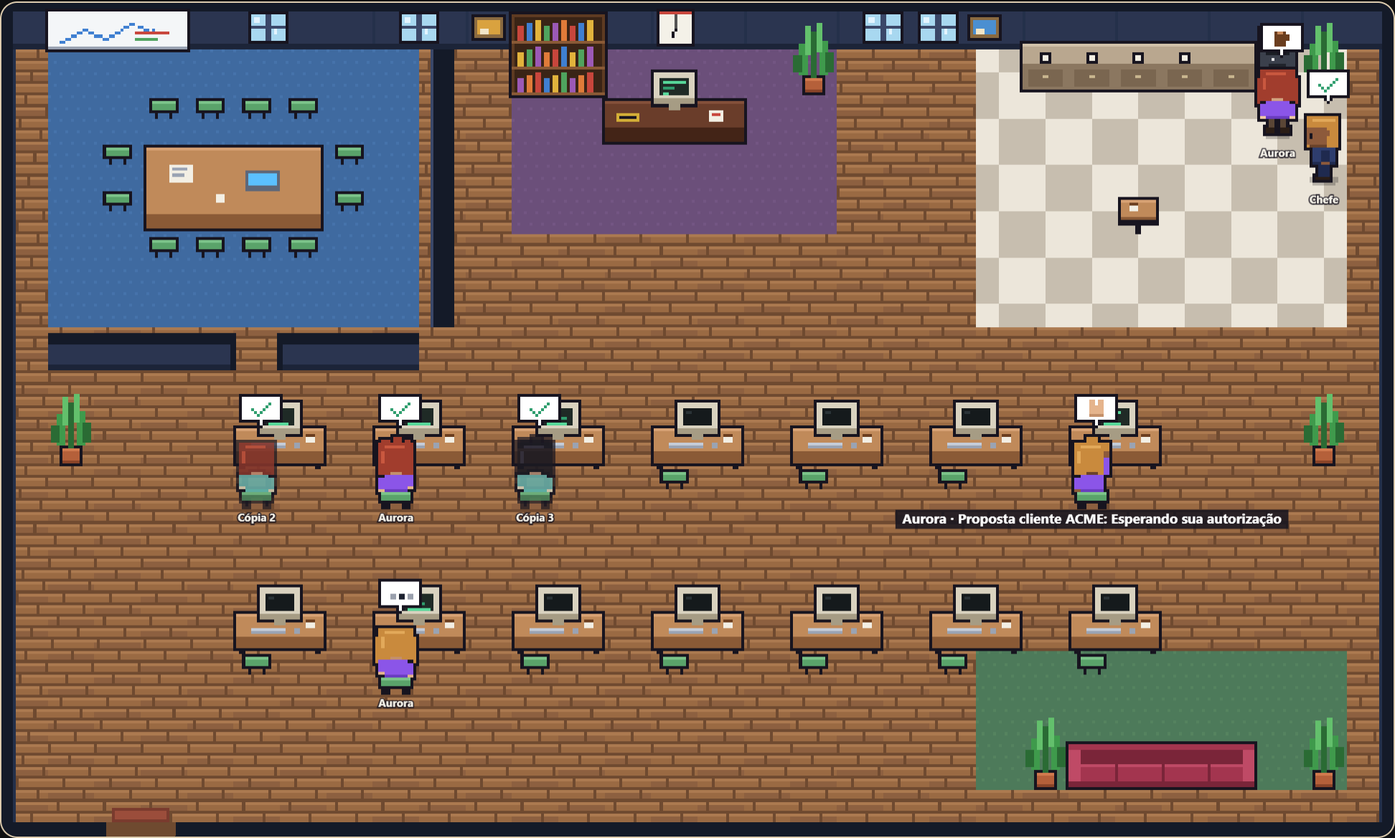
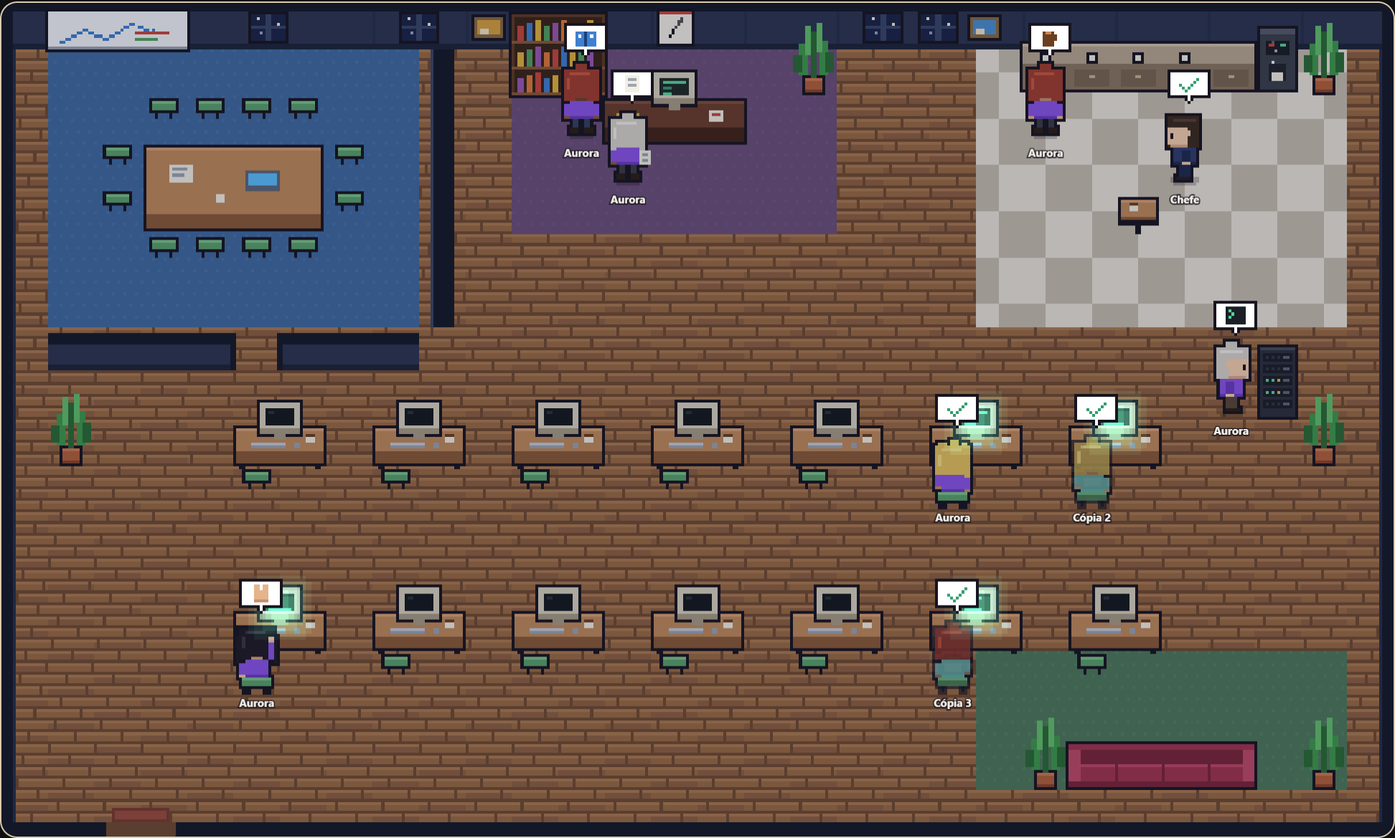
Escritório vivo: o lugar e o gesto seguem o que cada um faz de verdade
- Ferramenta decide o lugar: ler arquivos/documentos na estante, comandos no
  rack de servidores (novo), escrever e pesquisar no computador; mantido por
  5 s para ninguém correr a cada passo curto.
- Entrega: o papel na mesa do chefe, café na cafeteira, depois o café.
- Pensando por mais de 6 s: levanta e anda ao lado da mesa.
- Chefe sem nada a conferir faz ronda pelas mesas de quem trabalha.
- Livres dão voltas e, quando se encontram, conversam (balões em turnos).
- Piscar e respirar; papel e xícara nas mãos; servidor piscando; janelas e
  luz da sala pela hora real (dia, entardecer, noite com estrelas), monitores
  brilhando à noite.

diff --git a/frontend/src/officeSim.ts b/frontend/src/officeSim.ts
@@ -5,7 +5,7 @@
 // the walk there (A* on the tiles) and the step of each frame. Pure: no React, no canvas (tests).
 
 export type OfficeActor = {
-  id: string; kind: "aurora" | "agente" | "copia" | "professor" | "chefe"; name: string; state: string; activity: string;
+  id: string; tool?: string; kind: "aurora" | "agente" | "copia" | "professor" | "chefe"; name: string; state: string; activity: string;
   since?: number | null; conversationId?: string | null; agentId?: string; task?: string; with?: string; teacher?: string; department?: string | null;
   plan?: { done: number; total: number } | null;
 };
@@ -13,10 +13,10 @@ export type OfficeActor = {
 export const COLS = 30, ROWS = 18;
 export type Tile = { x: number; y: number };
 export type Spot = Tile & { face: "up" | "down" | "left" | "right"; sit: boolean; kind: SpotKind; desk?: number };
-export type SpotKind = "desk" | "meeting" | "boss" | "visit" | "coffee" | "sofa" | "rest" | "door";
+export type SpotKind = "desk" | "meeting" | "boss" | "visit" | "coffee" | "sofa" | "rest" | "door" | "shelf" | "server" | "pace";
 
 /** The furniture: blocked tiles, drawn by the view. */
-export type Furniture = { kind: "desk" | "table" | "bossdesk" | "counter" | "machine" | "sofa" | "plant" | "roundtable" | "glass" | "shelf" | "whiteboard"; x: number; y: number; w: number; h: number; desk?: number };
+export type Furniture = { kind: "desk" | "table" | "bossdesk" | "counter" | "machine" | "sofa" | "plant" | "roundtable" | "glass" | "shelf" | "whiteboard" | "server"; x: number; y: number; w: number; h: number; desk?: number };
 
 function plan() {
   const furniture: Furniture[] = [];
@@ -31,6 +31,10 @@ function plan() {
   furniture.push({ kind: "bossdesk", x: 13, y: 2, w: 3, h: 1 }, { kind: "shelf", x: 11, y: 1, w: 2, h: 1 }, { kind: "plant", x: 17, y: 1, w: 1, h: 1 });
   spots.push({ x: 14, y: 1, face: "down", sit: true, kind: "boss" });
   spots.push({ x: 13, y: 3, face: "up", sit: false, kind: "visit" }, { x: 15, y: 3, face: "up", sit: false, kind: "visit" });
+  spots.push({ x: 11, y: 2, face: "up", sit: false, kind: "shelf" }, { x: 12, y: 2, face: "up", sit: false, kind: "shelf" });
+  // The server rack (right wall): where commands run.
+  furniture.push({ kind: "server", x: 27, y: 8, w: 1, h: 1 });
+  spots.push({ x: 27, y: 9, face: "up", sit: false, kind: "server" }, { x: 26, y: 8, face: "right", sit: false, kind: "server" });
   // Coffee corner (top right): the machine, the counter, a round table.
   furniture.push({ kind: "machine", x: 27, y: 1, w: 1, h: 1 }, { kind: "counter", x: 22, y: 1, w: 5, h: 1 }, { kind: "roundtable", x: 24, y: 4, w: 1, h: 1 }, { kind: "plant", x: 28, y: 1, w: 1, h: 1 });
   for (const x of [27, 22, 23, 24, 25, 26]) spots.push({ x, y: 2, face: "up", sit: false, kind: "coffee" });
@@ -90,6 +94,12 @@ const hash = (s: string) => { let h = 2166136261; for (const c of s) { h ^= c.ch
 /** Where a state sends someone: the kind of spot. */
 export function placeOf(a: OfficeActor): SpotKind | "beside" | "gone" {
   if (a.kind === "chefe") return a.state === "reuniao" ? "meeting" : a.state === "cobrando" || a.state === "conferindo" ? "beside" : "boss";
+  // Working, the tool decides where: reading files and documents at the shelves, commands at the
+  // server, the rest (writing, the web, the BI) at the computer.
+  if (a.state === "trabalhando" && a.tool) {
+    if (/^(read_file|list_dir|list_files|glob|search_files|grep|knowledge|memor)/.test(a.tool)) return "shelf";
+    if (/^(run_command|shell|powershell)/.test(a.tool)) return "server";
+  }
   switch (a.state) {
     case "revisao": case "reuniao": return "meeting";
     case "cafe": return "coffee";
@@ -144,15 +154,37 @@ export function assignSpots(actors: OfficeActor[], before: Map<string, Spot> = n
   return out;
 }
 
+/** An errand on the way to one's place: a spot, how long to stay, what one carries away from it. */
+export type Errand = { spot: Spot; wait: number; carry?: Carry };
+export type Carry = "paper" | "cup" | null;
 /** A person on the floor: where they are, where they go, how they look. */
-export type Walker = { id: string; actor: OfficeActor; x: number; y: number; path: Tile[]; spot: Spot | null; leaving: boolean; phase: number; facing: Spot["face"]; seat: boolean; strollAt: number };
+export type Walker = {
+  id: string; actor: OfficeActor; x: number; y: number; path: Tile[]; spot: Spot | null; leaving: boolean; phase: number; facing: Spot["face"]; seat: boolean; strollAt: number;
+  home?: Spot | null; homeAt?: number; queue?: Errand[]; dwell?: number; gives?: Carry; arrivedAt?: number | null; carry?: Carry; routineAt?: number; chatWith?: string | null;
+};
 const SPEED = 3.2;            // tiles per second
+const BUSY = new Set(["trabalhando", "pensando", "refazendo", "conferindo", "aguardando", "chegando", "revisao", "cobrado"]);
+const same = (a?: Spot | null, b?: Spot | null) => !!a && !!b && a.x === b.x && a.y === b.y;
+const go = (w: Walker, spot: Spot) => { w.spot = spot; w.path = findPath(w, spot); w.arrivedAt = null; };
 
-/** One frame: everyone walks their path; arrived, they sit or stand as their spot says. */
-export function step(walkers: Walker[], dt: number): Walker[] {
+/** One frame: everyone walks their path; arrived, they sit or stand, wait out an errand, go on. */
+export function step(walkers: Walker[], dt: number, now: number = Date.now()): Walker[] {
   for (const w of walkers) {
     const next = w.path[0];
-    if (!next) { w.seat = !!w.spot?.sit && !w.leaving; if (w.spot) w.facing = w.spot.face; continue; }
+    if (!next) {
+      w.seat = !!w.spot?.sit && !w.leaving; if (w.spot) w.facing = w.spot.face;
+      if (w.arrivedAt == null) w.arrivedAt = now;
+      // An errand done: the next one, or home.
+      if (w.queue?.length || (w.dwell != null && w.home && !same(w.spot, w.home))) {
+        if (now - w.arrivedAt >= (w.dwell ?? 0)) {
+          if (w.gives !== undefined) w.carry = w.gives;          // the paper handed over, the cup taken
+          const e = w.queue?.shift();
+          if (e) { w.dwell = e.wait; w.gives = e.carry ?? null; go(w, e.spot); }
+          else { w.dwell = undefined; w.gives = undefined; if (w.home) go(w, w.home); }
+        }
+      }
+      continue;
+    }
     w.seat = false;
     const dx = next.x - w.x, dy = next.y - w.y; const d = Math.hypot(dx, dy); const move = SPEED * dt;
     w.facing = Math.abs(dx) > Math.abs(dy) ? (dx > 0 ? "right" : "left") : dy > 0 ? "down" : "up";
@@ -164,41 +196,83 @@ export function step(walkers: Walker[], dt: number): Walker[] {
 }
 
 /**
- * The floor after new data: newcomers come in through the door, those whose spot changed walk to the
- * new one, those no longer in the data walk out. Idle ones stroll to another rest spot now and then.
+ * The floor after new data: newcomers come in through the door, those whose place changed walk to the
+ * new one (a delivery first goes by the boss's desk with the paper, then by the coffee machine), those
+ * no longer in the data walk out. A tool that changes every few seconds does not send anyone running
+ * between the shelves and the desk: a place of work is kept at least 5 s.
  */
 export function sync(walkers: Walker[], actors: OfficeActor[], now: number): Walker[] {
-  const before = new Map(walkers.filter((w) => w.spot && !w.leaving).map((w) => [w.id, w.spot!]));
+  const before = new Map(walkers.filter((w) => (w.home || w.spot) && !w.leaving).map((w) => [w.id, (w.home || w.spot)!]));
   const spots = assignSpots(actors, before);
   const byId = new Map(walkers.map((w) => [w.id, w]));
   const out: Walker[] = [];
+  const machine = PLAN.spots.find((s) => s.kind === "coffee")!;
+  const bossVisit = PLAN.spots.find((s) => s.kind === "visit")!;
   for (const a of actors) {
-    const spot = spots.get(a.id) || null;
+    let spot = spots.get(a.id) || null;
     let w = byId.get(a.id);
     if (!w) {
       if (!spot) continue;
       // Who was already there when the office opened is at their place; who arrives comes in through the door.
       const fresh = walkers.length > 0;
-      w = { id: a.id, actor: a, x: fresh ? DOOR.x : spot.x, y: fresh ? DOOR.y : spot.y, path: [], spot: null, leaving: false, phase: hash(a.id) % 7, facing: "up", seat: false, strollAt: now + 15000 + (hash(a.id) % 20000) };
+      w = { id: a.id, actor: a, x: fresh ? DOOR.x : spot.x, y: fresh ? DOOR.y : spot.y, path: [], spot: null, leaving: false, phase: hash(a.id) % 7, facing: "up", seat: false, strollAt: now + 12000 + (hash(a.id) % 15000), home: null, homeAt: now, queue: [], carry: null };
     }
-    w.actor = a; w.leaving = false;
-    if (!spot) { w.leaving = true; w.spot = null; w.path = findPath(w, DOOR); out.push(w); continue; }
-    if (!w.spot || w.spot.x !== spot.x || w.spot.y !== spot.y) { w.spot = spot; w.path = findPath(w, spot); }
+    const was = w.actor.state; w.actor = a; w.leaving = false;
+    if (!spot) { w.leaving = true; w.spot = w.home = null; w.queue = []; w.path = findPath(w, DOOR); out.push(w); continue; }
+    const work = (k?: SpotKind) => k === "desk" || k === "shelf" || k === "server";
+    if (w.home && work(w.home.kind) && work(spot.kind) && a.state === was && now - (w.homeAt ?? 0) < 5000) spot = w.home;
+    if (!same(w.home, spot)) {
+      w.home = spot; w.homeAt = now; w.chatWith = null;
+      // Just delivered: the paper to the boss, a coffee from the machine, then a seat at the café.
+      if (a.state === "cafe" && BUSY.has(was) && a.kind !== "chefe") {
+        w.queue = [{ spot: machine, wait: 3000, carry: "cup" }]; w.dwell = 2500; w.gives = null; w.carry = "paper"; go(w, bossVisit);
+      } else { w.queue = []; w.dwell = undefined; w.gives = undefined; w.carry = a.state === "cafe" ? "cup" : null; go(w, spot); }
+    }
     out.push(w);
   }
-  for (const w of walkers) if (!actors.some((a) => a.id === w.id)) { if (!w.leaving) { w.leaving = true; w.spot = null; w.path = findPath(w, DOOR); } out.push(w); }
+  for (const w of walkers) if (!actors.some((a) => a.id === w.id)) { if (!w.leaving) { w.leaving = true; w.spot = w.home = null; w.queue = []; w.path = findPath(w, DOOR); } out.push(w); }
   return out;
 }
 
-/** Idle people stretch their legs: to another free rest spot (coffee, sofa, the window). */
-export function stroll(walkers: Walker[], now: number): void {
+/**
+ * Life between the facts (each still what the state is): idle people stroll and, meeting another idle
+ * one, stop to chat; who has been thinking a while gets up and paces beside the desk; the boss, with
+ * nobody to check, goes round the desks of who is working.
+ */
+export function routines(walkers: Walker[], now: number): void {
   const used = new Set(walkers.map((w) => w.spot).filter(Boolean));
+  const arrived = (w: Walker) => !w.path.length && !w.queue?.length && w.dwell == null;
+  const working = walkers.filter((w) => !w.leaving && arrived(w) && w.home?.kind === "desk" && ["trabalhando", "pensando", "refazendo", "conferindo"].includes(w.actor.state));
   for (const w of walkers) {
-    if (w.actor.state !== "descanso" || w.leaving || w.path.length || now < w.strollAt) continue;
-    const options = PLAN.spots.filter((s) => (s.kind === "sofa" || s.kind === "rest" || s.kind === "coffee") && !used.has(s));
-    w.strollAt = now + 20000 + (hash(w.id + now) % 25000);
-    if (!options.length) continue;
-    const s = options[hash(w.id + String(now)) % options.length];
-    used.delete(w.spot); used.add(s); w.spot = s; w.path = findPath(w, s);
+    if (w.leaving || !arrived(w) || now < (w.routineAt ?? 0)) continue;
+    const a = w.actor;
+    if (a.state === "descanso" && a.kind !== "chefe" && now >= w.strollAt) {
+      w.strollAt = now + 14000 + (hash(w.id + now) % 18000);
+      // Now and then next to another idle person, to chat; otherwise another rest spot.
+      const mate = walkers.find((o) => o !== w && o.actor.state === "descanso" && arrived(o) && !o.chatWith && o.spot);
+      if (mate && hash(w.id + String(now)) % 2 === 0) {
+        const near = [[1, 0], [-1, 0], [0, 1]].map(([dx, dy]) => ({ x: mate.spot!.x + dx, y: mate.spot!.y + dy })).find((t) => findPath(w, t).length || (w.x === t.x && w.y === t.y));
+        if (near) { const face: Spot["face"] = near.x > mate.spot!.x ? "left" : near.x < mate.spot!.x ? "right" : "up"; go(w, { ...near, face, sit: false, kind: "rest" }); w.home = w.spot; w.chatWith = mate.id; mate.chatWith = w.id; continue; }
+      }
+      const options = PLAN.spots.filter((s) => (s.kind === "sofa" || s.kind === "rest" || s.kind === "coffee") && !used.has(s));
+      if (options.length) { const s = options[hash(w.id + String(now)) % options.length]; used.delete(w.spot); used.add(s); if (w.chatWith) { const o = walkers.find((x) => x.id === w.chatWith); if (o) o.chatWith = null; } w.chatWith = null; go(w, s); w.home = s; }
+      continue;
+    }
+    // Thinking for a while: up and pacing beside the desk, back to the chair, again.
+    if (a.state === "pensando" && w.home?.kind === "desk" && a.since && now - a.since > 6000) {
+      w.routineAt = now + 3500;
+      if (same(w.spot, w.home)) go(w, { x: w.home.x + (hash(w.id) % 2 ? 1 : -1), y: w.home.y + 1, face: "down", sit: false, kind: "pace" });
+      else go(w, w.home);
+      continue;
+    }
+    // The boss going round: behind each one working, a few seconds each.
+    if (a.kind === "chefe" && a.state === "supervisionando") {
+      w.routineAt = now + 5500;
+      if (!working.length) { if (w.home && !same(w.spot, w.home)) go(w, w.home); continue; }
+      const target = working[Math.floor(now / 5500) % working.length];
+      go(w, { x: target.home!.x + 1, y: target.home!.y, face: "left", sit: false, kind: "visit" });
+    }
   }
 }
+/** Kept for callers of the first version: the routines include the strolls. */
+export const stroll = routines;

diff --git a/frontend/src/officePixel.ts b/frontend/src/officePixel.ts
@@ -55,8 +55,6 @@ export function drawRoom(c: Ctx) {
   px(c, 0, 0, W, 3, P.wallCap); px(c, 0, 3, W, T - 3, P.wallFace);
   for (let x = 0; x < W; x += 32) px(c, x, 3, 1, T - 5, P.wallFace2);
   px(c, 0, T - 2, W, 2, P.wallBase);
-  // Windows (between the furniture against the wall).
-  for (const wx of [5.4, 8.6, 18.6, 19.8]) { const x = Math.round(wx * T); px(c, x - 1, 3, 14, 11, OUT); px(c, x, 4, 12, 9, P.glass); px(c, x + 5, 4, 2, 9, P.trim); px(c, x, 8, 12, 1, P.trim); px(c, x + 1, 5, 2, 2, P.glassHi); px(c, x + 8, 9, 1, 2, P.glassHi); }
   // Pictures.
   for (const [wx, col] of [[10.2, "#d9a23f"], [20.9, "#4b8fd1"]] as const) { const x = Math.round(wx * T); px(c, x - 1, 4, 12, 9, OUT); px(c, x, 5, 10, 7, "#8a6a40"); px(c, x + 1, 6, 8, 5, col); px(c, x + 2, 9, 3, 2, "#f2e6c8"); }
   // Side and front walls (seen from above: their dark top).
@@ -158,8 +156,48 @@ export function drawFurniture(c: Ctx, f: Furniture, working: Set<number>, t: num
       px(c, x + 30, y - 6, 12, 1, P.red); px(c, x + 30, y - 4, 8, 1, "#4fa35e");
       break;
     }
+    case "server": {
+      px(c, x + 1, y - 10, 14, 26, OUT); px(c, x + 2, y - 9, 12, 24, "#2b303b"); px(c, x + 2, y - 9, 12, 1, "#454c5c");
+      for (let r = 0; r < 5; r++) {
+        px(c, x + 3, y - 7 + r * 4, 10, 3, "#1b1f27");
+        for (let l = 0; l < 3; l++) { const on = Math.sin(t * (3 + l + r) + r * 2.1 + l) > 0.1; px(c, x + 4 + l * 2, y - 6 + r * 4, 1, 1, on ? (l === 2 ? "#e9b23c" : "#57d89a") : "#30363f"); }
+        px(c, x + 10, y - 6 + r * 4, 2, 1, "#5f6778");
+      }
+      break;
+    }
     case "glass": break;            // drawn as walls with the room
   }
+}
+/** The sky through the windows at this hour: day, sunset, night with stars. */
+function sky(now: Date) {
+  const h = now.getHours() + now.getMinutes() / 60;
+  if (h >= 7 && h < 17) return { glass: P.glass, hi: P.glassHi, night: false };
+  if (h >= 17 && h < 19) return { glass: "#f2a65a", hi: "#ffd9a0", night: false };
+  if (h >= 5.5 && h < 7) return { glass: "#e9b3c8", hi: "#fbe3ec", night: false };
+  return { glass: "#1b2448", hi: "#f6f1c7", night: true };
+}
+export function drawWindows(c: Ctx, now: Date) {
+  const k = sky(now);
+  for (const wx of [5.4, 8.6, 18.6, 19.8]) {
+    const x = Math.round(wx * T); px(c, x - 1, 3, 14, 11, OUT); px(c, x, 4, 12, 9, k.glass);
+    if (k.night) { px(c, x + 2, 5, 1, 1, k.hi); px(c, x + 9, 7, 1, 1, k.hi); px(c, x + 3, 10, 1, 1, "#9aa3c7"); }
+    else { px(c, x + 1, 5, 2, 2, k.hi); px(c, x + 8, 9, 1, 2, k.hi); }
+    px(c, x + 5, 4, 2, 9, P.trim); px(c, x, 8, 12, 1, P.trim);
+  }
+}
+/** Evening and night: the room dims and the screens of who works glow. */
+export function drawLight(c: Ctx, now: Date, glows: Array<{ x: number; y: number }>) {
+  const h = now.getHours() + now.getMinutes() / 60;
+  const dark = h >= 20 || h < 5.5 ? 0.42 : h >= 18.5 ? 0.22 : h < 7 ? 0.18 : 0;
+  if (!dark) return;
+  c.fillStyle = `rgba(14,18,46,${dark})`; c.fillRect(0, 0, W, H);
+  c.save(); c.globalCompositeOperation = "lighter";
+  // A soft halo round each lit screen (three rings, fainter outwards), on the desk and the face before it.
+  for (const g of glows) {
+    const cx = g.x + 7, cy = g.y + 5;
+    for (const [rx, ry, al] of [[11, 9, 0.07], [8, 6, 0.09], [5, 4, 0.12]] as const) { c.fillStyle = `rgba(90,210,150,${al})`; c.fillRect(cx - rx, cy - ry + 2, rx * 2, ry * 2); c.fillRect(cx - rx + 2, cy - ry, rx * 2 - 4, ry * 2 + 4); }
+  }
+  c.restore();
 }
 /** The wall clock, with the real time. */
 export function drawClock(c: Ctx, now: Date) {
@@ -187,8 +225,11 @@ type Rect = [number, number, number, number, string];
  * A person, the feet at (fx, fy) on the small canvas: pose "stand" | "walk" | "sit" (back to us, at a
  * desk) | "sitFront" (facing us: sofa, far side of the table); facing for stand/walk.
  */
-export function drawPerson(c: Ctx, fx: number, fy: number, a: OfficeActor, look: Look, pose: "stand" | "walk" | "sit" | "sitFront", facing: "up" | "down" | "left" | "right", frame: number, t: number) {
+export function drawPerson(c: Ctx, fx: number, fy: number, a: OfficeActor, look: Look, pose: "stand" | "walk" | "sit" | "sitFront", facing: "up" | "down" | "left" | "right", frame: number, t: number, carry: "paper" | "cup" | null = null) {
   const L = look; const x0 = Math.round(fx) - 8, y0 = Math.round(fy) - 24;
+  const seed = hash(a.id);
+  const blink = Math.floor(t * 1000 + seed) % 3900 < 120;                 // a blink every few seconds
+  const breathe = pose !== "walk" && Math.floor(t * 0.9 + (seed % 10) / 10) % 2 === 1 ? 1 : 0;
   const flip = facing === "left"; const side = facing === "left" || facing === "right";
   const back = pose === "sit" || (pose !== "sitFront" && facing === "up");
   const sitting = pose === "sit" || pose === "sitFront"; const dy = sitting ? 3 : 0;
@@ -196,17 +237,18 @@ export function drawPerson(c: Ctx, fx: number, fy: number, a: OfficeActor, look:
   const parts: Rect[] = []; const details: Rect[] = [];
   const P_ = (x: number, y: number, w: number, h: number, col: string, list = parts) => list.push([x, y, w, h, col]);
   // Head (big, chibi) and hair.
-  const hy = 1 + dy;
+  const hy = 1 + dy + breathe;
   if (side) {
     P_(3, hy, 11, 11, L.hair); P_(7, hy + 4, 7, 6, L.skin); P_(7, hy + 10, 6, 1, L.skinDark);
-    P_(12, hy + 6, 1, 2, OUT, details); P_(6, hy + 5, 2, 2, L.skin, details);              // eye; ear
+    P_(12, hy + 6 + (blink ? 1 : 0), 1, blink ? 1 : 2, OUT, details); P_(6, hy + 5, 2, 2, L.skin, details);              // eye; ear
     P_(4, hy + 1, 8, 1, L.hairHi, details);
   } else if (back) {
     P_(2, hy, 12, 11, L.hair); P_(6, hy + 10, 4, 1, L.skinDark);
     P_(4, hy + 1, 7, 1, L.hairHi, details); P_(3, hy + 3, 1, 4, L.hairHi, details);
   } else {
     P_(2, hy, 12, 11, L.hair); P_(3, hy + 4, 10, 6, L.skin); P_(4, hy + 10, 8, 1, L.skinDark);
-    P_(5, hy + 6, 1, 2, OUT, details); P_(10, hy + 6, 1, 2, OUT, details);
+    if (blink) { P_(5, hy + 7, 1, 1, OUT, details); P_(10, hy + 7, 1, 1, OUT, details); }
+    else { P_(5, hy + 6, 1, 2, OUT, details); P_(10, hy + 6, 1, 2, OUT, details); }
     P_(4, hy + 8, 1, 1, "#e89a8a", details); P_(11, hy + 8, 1, 1, "#e89a8a", details);
     P_(3, hy + 4, 4, 1, L.hair, details); P_(4, hy + 1, 8, 1, L.hairHi, details);           // fringe, shine
     if (a.kind === "professor") { P_(4, hy + 5, 3, 1, OUT, details); P_(9, hy + 5, 3, 1, OUT, details); P_(7, hy + 5, 2, 1, OUT, details); }
@@ -238,8 +280,10 @@ export function drawPerson(c: Ctx, fx: number, fy: number, a: OfficeActor, look:
   else if (pose === "sitFront") { P_(4, by + 6, 8, 2, L.pants); P_(4, by + 8, 3, 1, L.shoes); P_(9, by + 8, 3, 1, L.shoes); }
   else if (side) { P_(6 - step, 18, 2, 4 - Math.abs(step), L.pants); P_(8 + step, 18, 2, 4, L.pants); P_(6 - step, 22 - Math.abs(step), 3, 1, L.shoes); P_(8 + step, 22, 3, 1, L.shoes); }
   else { P_(5, 18, 2, 3 - (step > 0 ? 1 : 0), L.pants); P_(9, 18, 2, 3 - (step < 0 ? 1 : 0), L.pants); P_(4, 21 - (step > 0 ? 1 : 0), 3, 2, L.shoes); P_(9, 21 - (step < 0 ? 1 : 0), 3, 2, L.shoes); }
-  // A coffee in hand.
-  if (a.state === "cafe" && !back) { P_(13, by + 2, 3, 4, "#f2f2f2", details); P_(13, by + 2, 3, 1, "#6b3e1f", details); }
+  // In hand: a coffee, or the paper of a delivery.
+  const holds = carry ?? (a.state === "cafe" ? "cup" : null);
+  if (holds === "cup" && !back) { P_(side ? 9 + step : 13, by + 2, 3, 4, "#f2f2f2", details); P_(side ? 9 + step : 13, by + 2, 3, 1, "#6b3e1f", details); }
+  if (holds === "paper") { P_(side ? 9 + step : 12, by + 1, 4, 5, P.paper, details); P_(side ? 10 + step : 13, by + 2, 2, 1, "#9aa3b3", details); P_(side ? 10 + step : 13, by + 4, 2, 1, "#9aa3b3", details); }
 
   c.save();
   if (a.kind === "copia") c.globalAlpha = 0.7;
@@ -253,7 +297,7 @@ export function drawPerson(c: Ctx, fx: number, fy: number, a: OfficeActor, look:
 }
 
 // ---------------- Bubbles ----------------
-export type Sign = "dots" | "think" | "hand" | "talk" | "cup" | "zz" | "alert" | "check" | "clip";
+export type Sign = "dots" | "think" | "hand" | "talk" | "cup" | "zz" | "alert" | "check" | "clip" | "book" | "term" | "paper";
 export function signOf(state: string, kind: OfficeActor["kind"]): Sign | null {
   if (kind === "chefe") return state === "cobrando" ? "clip" : state === "conferindo" ? "check" : state === "reuniao" ? "talk" : null;
   return ({ trabalhando: "dots", refazendo: "dots", conferindo: "check", pensando: "think", chegando: "think", aguardando: "hand", revisao: "talk", reuniao: "talk", cafe: "cup", descanso: "zz", cobrado: "alert" } as Record<string, Sign>)[state] || null;
@@ -272,6 +316,9 @@ export function drawBubble(c: Ctx, x: number, y: number, s: Sign, t: number) {
     case "zz": px(c, ix, iy + 2, 3, 1, ink); px(c, ix + 1, iy + 3, 1, 1, ink); px(c, ix, iy + 4, 3, 1, ink); px(c, ix + 4, iy, 2, 1, ink); px(c, ix + 4, iy + 1, 1, 1, ink); px(c, ix + 4, iy + 2, 2, 1, ink); break;
     case "alert": px(c, ix + 3, iy, 2, 4, "#d6334f"); px(c, ix + 3, iy + 5, 2, 1, "#d6334f"); break;
     case "check": px(c, ix, iy + 3, 1, 1, "#2f9e6e"); px(c, ix + 1, iy + 4, 1, 1, "#2f9e6e"); px(c, ix + 2, iy + 5, 1, 1, "#2f9e6e"); px(c, ix + 3, iy + 4, 1, 1, "#2f9e6e"); px(c, ix + 4, iy + 3, 1, 1, "#2f9e6e"); px(c, ix + 5, iy + 2, 1, 1, "#2f9e6e"); px(c, ix + 6, iy + 1, 1, 1, "#2f9e6e"); break;
+    case "book": px(c, ix, iy + 1, 7, 5, "#3f7fd1"); px(c, ix + 3, iy + 1, 1, 5, "#1d3f73"); px(c, ix + 1, iy + 2, 1, 1, "#ffffff"); px(c, ix + 5, iy + 2, 1, 1, "#ffffff"); break;
+    case "term": px(c, ix, iy, 7, 6, "#1b1f27"); px(c, ix + 1, iy + 1, 1, 1, "#57d89a"); px(c, ix + 2, iy + 2, 1, 1, "#57d89a"); px(c, ix + 1, iy + 3, 1, 1, "#57d89a"); if (Math.floor(t * 2) % 2) px(c, ix + 3, iy + 4, 3, 1, "#57d89a"); break;
+    case "paper": px(c, ix + 1, iy, 5, 6, P.paper); px(c, ix + 2, iy + 1, 3, 1, "#9aa3b3"); px(c, ix + 2, iy + 3, 3, 1, "#9aa3b3"); break;
     case "clip": px(c, ix + 1, iy, 5, 6, "#c08a5a"); px(c, ix + 2, iy + 1, 3, 4, "#ffffff"); px(c, ix + 3, iy - 1, 1, 1, OUT); px(c, ix + 2, iy + 2, 3, 1, "#9aa0ad"); break;
   }
 }

diff --git a/frontend/src/OfficeView.tsx b/frontend/src/OfficeView.tsx
@@ -1,7 +1,7 @@
 import { useEffect, useMemo, useRef, useState } from "react";
 import { getOffice, type OfficeRoom } from "./api";
 import { PLAN, step, sync, stroll, type OfficeActor, type Walker } from "./officeSim";
-import { T, W, H, drawRoom, drawFurniture, drawClock, drawEmptySeat, drawPerson, drawBubble, lookOf, signOf, workingDesks } from "./officePixel";
+import { T, W, H, drawRoom, drawFurniture, drawClock, drawWindows, drawLight, drawEmptySeat, drawPerson, drawBubble, lookOf, signOf, workingDesks, type Sign } from "./officePixel";
 import "./office.css";
 
 /**
@@ -156,6 +156,7 @@ function poseOf(w: Walker): { pose: Pose; facing: Walker["facing"] } {
   return { pose: "stand", facing: w.spot?.face || w.facing };
 }
 
+const lookHash = (s: string) => { let h = 0; for (const ch of s) h = (h * 31 + ch.charCodeAt(0)) >>> 0; return h; };
 let low: HTMLCanvasElement | null = null, room: HTMLCanvasElement | null = null;
 function draw(ctx: CanvasRenderingContext2D, canvas: HTMLCanvasElement, walkers: Walker[], t: number, hover: string | null, selected: string | null) {
   if (!low) { low = document.createElement("canvas"); low.width = W; low.height = H; }
@@ -163,7 +164,7 @@ function draw(ctx: CanvasRenderingContext2D, canvas: HTMLCanvasElement, walkers:
   const c = low.getContext("2d")!;
   c.imageSmoothingEnabled = false;
   c.drawImage(room, 0, 0);
-  drawClock(c, new Date());
+  const now = new Date(); drawWindows(c, now); drawClock(c, now);
   const working = workingDesks(walkers);
   // Furniture, empty chairs and people in depth order (lower on the floor is drawn later).
   const items: Array<{ y: number; draw: () => void }> = [];
@@ -172,11 +173,21 @@ function draw(ctx: CanvasRenderingContext2D, canvas: HTMLCanvasElement, walkers:
   for (const s of PLAN.spots) if ((s.kind === "desk" || s.kind === "meeting") && !seated.has(`${s.x},${s.y}`)) items.push({ y: s.y * T + 10, draw: () => drawEmptySeat(c, s.x, s.y) });
   for (const w of walkers) {
     const p = feet(w); const { pose, facing } = poseOf(w);
-    items.push({ y: p.y + (w.seat && w.spot?.kind === "sofa" ? T : 0), draw: () => drawPerson(c, p.x, p.y, w.actor, lookOf(w.actor), pose, facing, Math.floor(w.phase), t) });
+    items.push({ y: p.y + (w.seat && w.spot?.kind === "sofa" ? T : 0), draw: () => drawPerson(c, p.x, p.y, w.actor, lookOf(w.actor), pose, facing, Math.floor(w.phase), t, w.carry ?? null) });
   }
   items.sort((a, b) => a.y - b.y).forEach((i) => i.draw());
-  // Signs over the heads of who has arrived.
-  for (const w of walkers) { const sgn = signOf(w.actor.state, w.actor.kind); if (sgn && !w.path.length) { const p = feet(w); drawBubble(c, p.x + 1, p.y - (w.seat ? 25 : 27), sgn, t); } }
+  // Evening and night: dimmer, the screens of who works glowing.
+  drawLight(c, now, PLAN.furniture.filter((f) => f.kind === "desk" && working.has(f.desk!)).map((f) => ({ x: f.x * T + 9, y: f.y * T - 6 })));
+  // Signs over the heads of who has arrived: at the shelves a book, at the server a terminal, a
+  // conversation in turns (one talks, then the other).
+  for (const w of walkers) {
+    if (w.path.length) continue;
+    let sgn: Sign | null = w.spot?.kind === "shelf" ? "book" : w.spot?.kind === "server" ? "term" : w.spot?.kind === "pace" ? "think" : w.carry === "paper" ? "paper" : signOf(w.actor.state, w.actor.kind);
+    const talking = w.chatWith ? walkers.find((o) => o.id === w.chatWith && !o.path.length) : null;
+    if (talking) sgn = "talk";
+    if (sgn === "talk" && Math.floor(t / 1.6 + (talking ? (w.id < talking.id ? 0 : 1) : (lookHash(w.id) % 2))) % 2) continue;
+    if (sgn) { const p = feet(w); drawBubble(c, p.x + 1, p.y - (w.seat ? 25 : 27), sgn, t); }
+  }
   // Enlarged without smoothing; the names sharp on top.
   const ratio = window.devicePixelRatio || 1; const shown = canvas.clientWidth || W * 3;
   const want = Math.max(W, Math.round(shown * ratio));

diff --git a/docs/ESCRITORIO.md b/docs/ESCRITORIO.md
@@ -50,6 +50,29 @@ Cada pessoa na sala é algo real do Harness, no estado em que está agora. Nada 
 
 Quem chega entra pela porta e anda até o seu lugar; quem sai do retrato anda até a porta.
 
+### Vivo, sem inventar
+
+O lugar e o gesto também seguem o que está acontecendo:
+- **Ferramenta em uso:**
+  - lendo arquivos ou buscando nos documentos: a pessoa vai à estante, com o sinal de livro;
+  - rodando um comando: vai ao rack de servidores, com o sinal de terminal;
+  - escrevendo, pesquisando na web ou montando o BI: digita no computador.
+
+  O lugar de trabalho se mantém por pelo menos 5 s, para ninguém ficar correndo a cada passo curto.
+- **Entrega:** leva o papel à mesa do chefe, pega um café na cafeteira e só então vai sentar no café.
+- **Pensando há mais de 6 s:** levanta e anda ao lado da mesa, depois volta à cadeira.
+- **Chefe sem nada para conferir:** faz ronda, parando um pouco atrás de cada um que trabalha.
+- **Quem está livre:** dá voltas pelo sofá, pela janela e pelo café. Dois livres que se encontram param para conversar, com balões de fala em turnos.
+- **Detalhes:**
+  - os bonequinhos piscam e respiram;
+  - os monitores mostram texto rolando;
+  - a cafeteira solta vapor e o servidor pisca;
+  - o relógio da parede marca a hora real;
+  - as janelas mudam com a hora (dia, entardecer, noite com estrelas);
+  - à noite a sala escurece e os monitores de quem trabalha brilham.
+
+![A sala de um projeto à noite](img/escritorio-noite.png)
+
 Clicar numa pessoa mostra:
 - o que ela está fazendo e há quanto tempo;
 - a tarefa e o andamento do plano;
